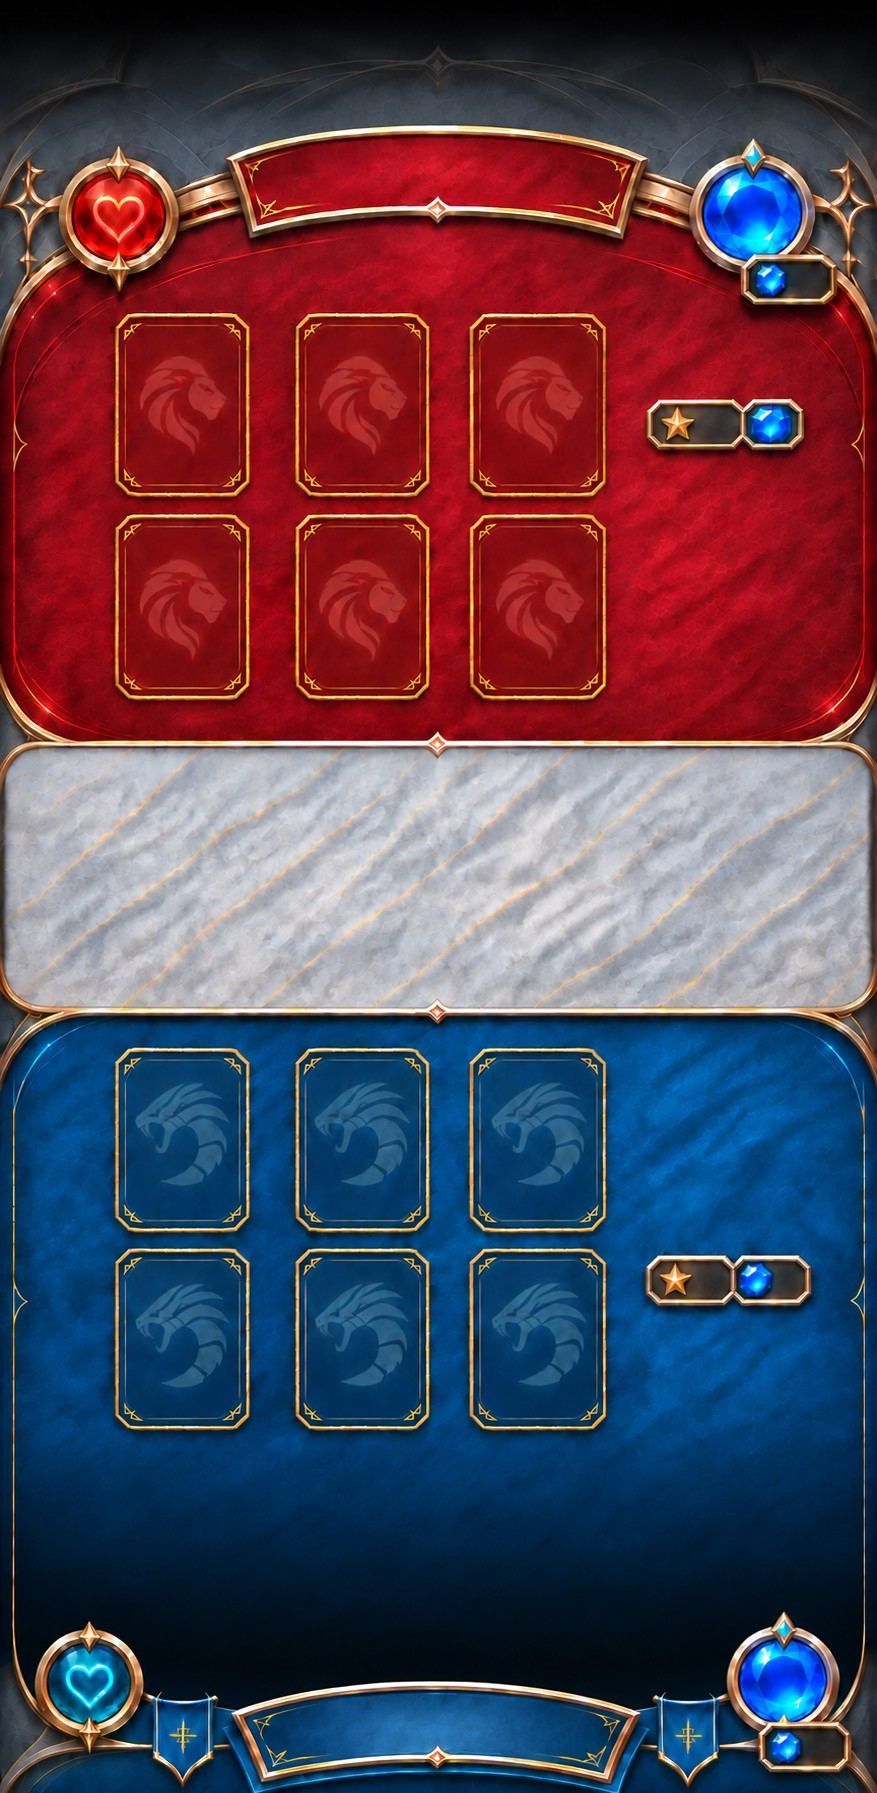
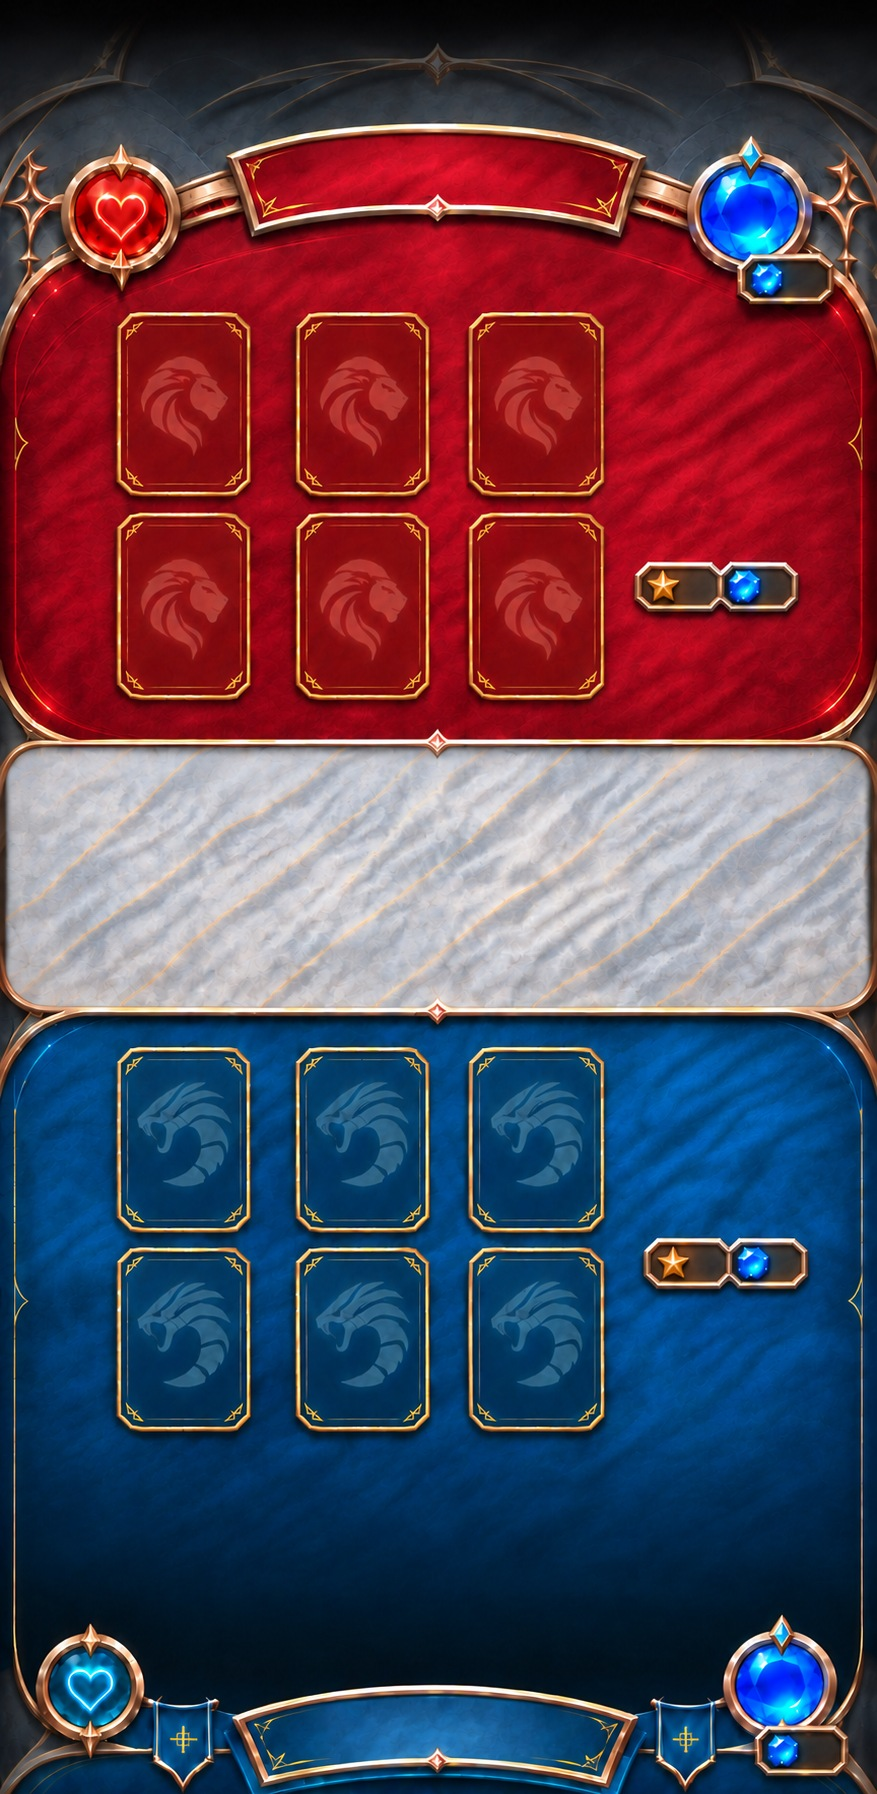
Bàn B ảnh mới: ô sao mana bên đỏ, bộ bài và nút lịch sử
Claude-Session: https://claude.ai/code/session_01Nx6Ku3L82wdGAVNEk86RHN

Changed region(s): [[0.0, 0.0312, 1.0, 1.0], [0.3387, 0.5622, 0.9236, 0.812], [0.1231, 0.5622, 0.3079, 0.812]]

diff --git a/src/lib/layouts.ts b/src/lib/layouts.ts
@@ -57,15 +57,15 @@ export const DEFAULT_BOARD: Record<HudKey, Mark> = byBoard<Record<HudKey, Mark>>
     foeHp: { x: 13.9, y: 12, size: 5.6 },
     foeOrb: { x: 85.5, y: 12, size: 6.2 },
     foeFlask: { x: 92.4, y: 15.4, size: 3.2 },
-    foeStars: { x: 81.6, y: 23.7, size: 3.6 },
-    foeGems: { x: 88, y: 23.7, size: 3.2 },
-    foeHand: { x: 84, y: 31.5, size: 3.2 },
+    foeStars: { x: 77.3, y: 32.6, size: 3.6 },
+    foeGems: { x: 86.8, y: 32.6, size: 3.2 },
+    foeHand: { x: 82, y: 25.8, size: 3.2 },
     foeReserve: { x: 49.6, y: 10, size: 3.2 },
     youHp: { x: 10, y: 94.1, size: 5.6 },
     youOrb: { x: 88.9, y: 92.9, size: 6.2 },
     youFlask: { x: 93.2, y: 97.3, size: 3.2 },
-    youStars: { x: 81.6, y: 71.3, size: 3.6 },
-    youGems: { x: 90, y: 71.3, size: 3.2 },
+    youStars: { x: 77.8, y: 70.5, size: 3.6 },
+    youGems: { x: 87.3, y: 70.5, size: 3.2 },
   },
 });
 

diff --git a/src/lib/updates.ts b/src/lib/updates.ts
@@ -1025,6 +1025,7 @@ export const PENDING_NOTES: string[] = [
   "Màn Chọn bộ bài đổi giao diện mới: bấm ô Bộ bài ở thanh dưới màn chính. Bấm bộ để chọn (glow xanh lá), nút Chọn gắn dấu tick, Chỉnh sửa, bộ lỗi có dấu !.",
   "Bàn đấu mới: hai bàn riêng cho màn 9:16 và màn dài 9:20, tự đổi theo màn, không cắt bàn nữa. Bố cục đã chỉnh tay trong Tuỳ chỉnh được đặt lại.",
   "Màu hai bể sáng chuyển lượt đổi theo màu sân của hai bàn đấu mới.",
+  "Bàn đấu dài đổi ảnh mới: ô sao và mana bên đỏ hạ xuống, bộ bài đặt trên khung sao, nút lịch sử nằm dưới khung sao.",
 ];
 
 function remarkOf(notes: string[]) {

diff --git a/src/routes/play.tsx b/src/routes/play.tsx
@@ -6662,7 +6662,7 @@ function PlayPage() {
         <button
           type="button"
           className="log-btn press"
-          style={{ left: `${marks.foeHand.x}%`, top: `calc(${marks.foeHand.y + board.stack.height * 0.56}% + 5.4cqw)` }}
+          style={boardCut().id === "b" ? { left: `${marks.foeStars.x + 4.5}%`, top: "37.6%" } : { left: `${marks.foeHand.x}%`, top: `calc(${marks.foeHand.y + board.stack.height * 0.56}% + 5.4cqw)` }}
           aria-label={tr("Lịch sử và cài đặt")}
           onClick={() => (playUi("select"), setHelp(true))}
         >

diff --git a/TIEP-TUC.md b/TIEP-TUC.md
@@ -4,6 +4,7 @@
 1. Việc vừa làm: thay bàn bằng 2 ảnh chủ game gửi: `public/board-a.jpg` (942×1670, màn cao/rộng < 1,91) và `board-b.jpg` (877×1793, màn dài hơn, đầu ảnh là dải tối cố ý). Bỏ cắt bàn: `board-cut.ts` viết lại (`BOARDS`, `pickBoard`, `byBoard` = bảng riêng từng bàn, `ry/rh` thành phép nhân 1). Số đo từ ảnh: ô lá + viên máu (play.tsx `SLOT_A/B`, `HP_BOX`), mặc định HUD/nút/kiếm/hồ sơ/lá môi trường (layouts.ts, theo mép dải đá), bể sáng đáy = mép dải đá, tay bài, tỉ lệ `.board` (`--board-ratio`). Bố cục lưu riêng từng bàn (`clash-board-layout-v12-a|b`), bản cũ bị bỏ.
 2. Hiện trạng: nhận 2 ảnh. Chụp Chromium 412×915 (bàn B) và 412×732 (bàn A) trận Test: ô lá, máu, mana, sao, xấp bài, nút khớp ảnh. Chưa thử: trang Tuỳ chỉnh bàn, Hướng dẫn, màn rất ngắn/rộng, điện thoại, bể sáng/góc bo (hằng số cũ chưa đo lại cho 2 bàn), vị trí lá môi trường/tường thành/kiếm. Núi dung nham tạm dùng chung bàn mới (lửa dung nham tắt vì ảnh cũ lệch).
    Thêm 15/11: màu 2 bể sáng đổi theo màu sân mới (`FIELD_HSL` turn-light.tsx: xanh 207/97/29, đỏ 358/65/30); chụp bàn B bể xanh khớp, bể đỏ và bàn A chưa chụp, hằng số góc bể chưa đo lại.
+   16/11: `board-b.jpg` thay ảnh mới 877×1794 (chủ game gửi): ô sao/mana bên đỏ hạ y≈32,6, bộ bài đỏ trên khung sao (foeHand y 25,8), nút lịch sử (`.log-btn`, hiểu là 'ô lịch sử') y 37,6 giữa khung sao và mép sân; ô lá/máu/mana khớp ảnh cũ nên giữ. Chụp bàn B khớp; bàn A không đổi.
 3. Việc sắp làm: chờ chủ game xem ảnh; chỉnh lệch; áp `main` khi được bảo.
 
 ## Màn Chọn bộ bài mới (15/11, Sonnet 5.5 medium, nhánh `ccr-42ba0a1d-w5tvmy`, CHƯA áp `main`): phần 1–2 ĐÃ LÀM
